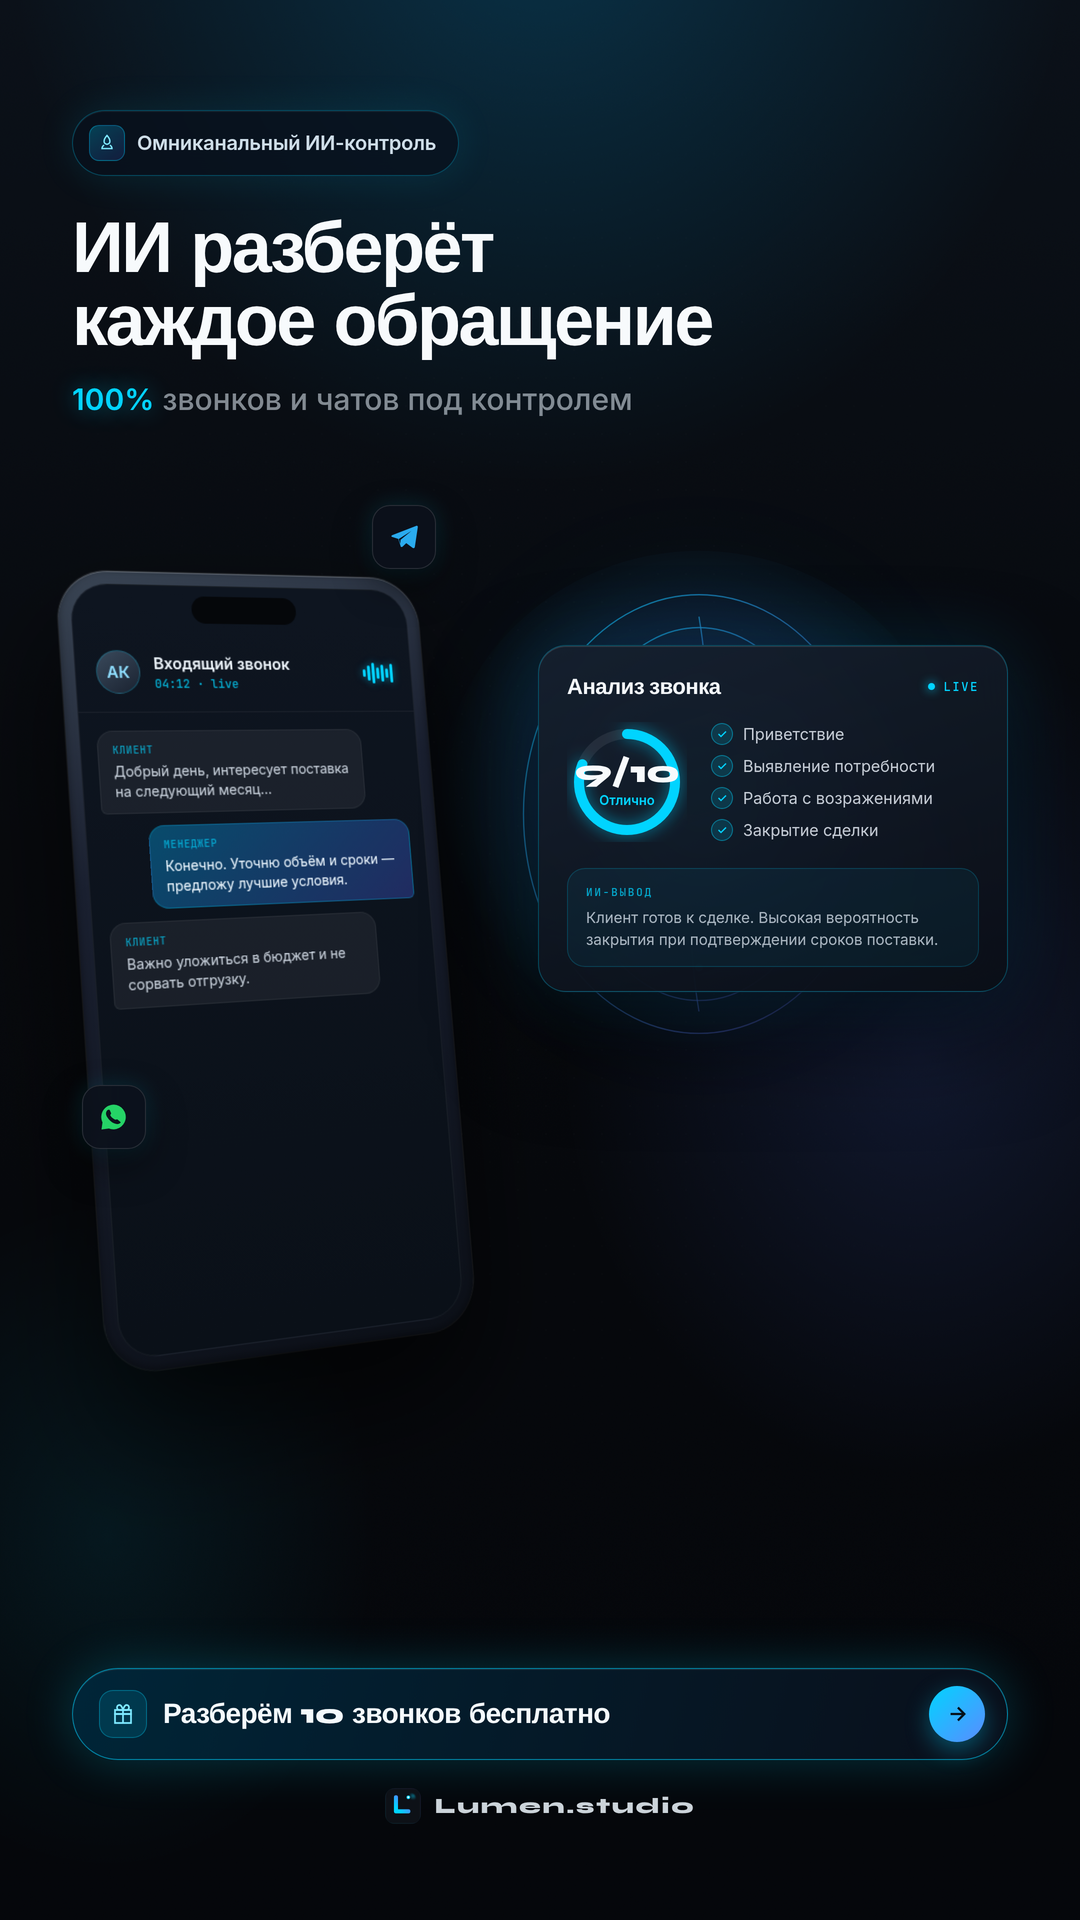
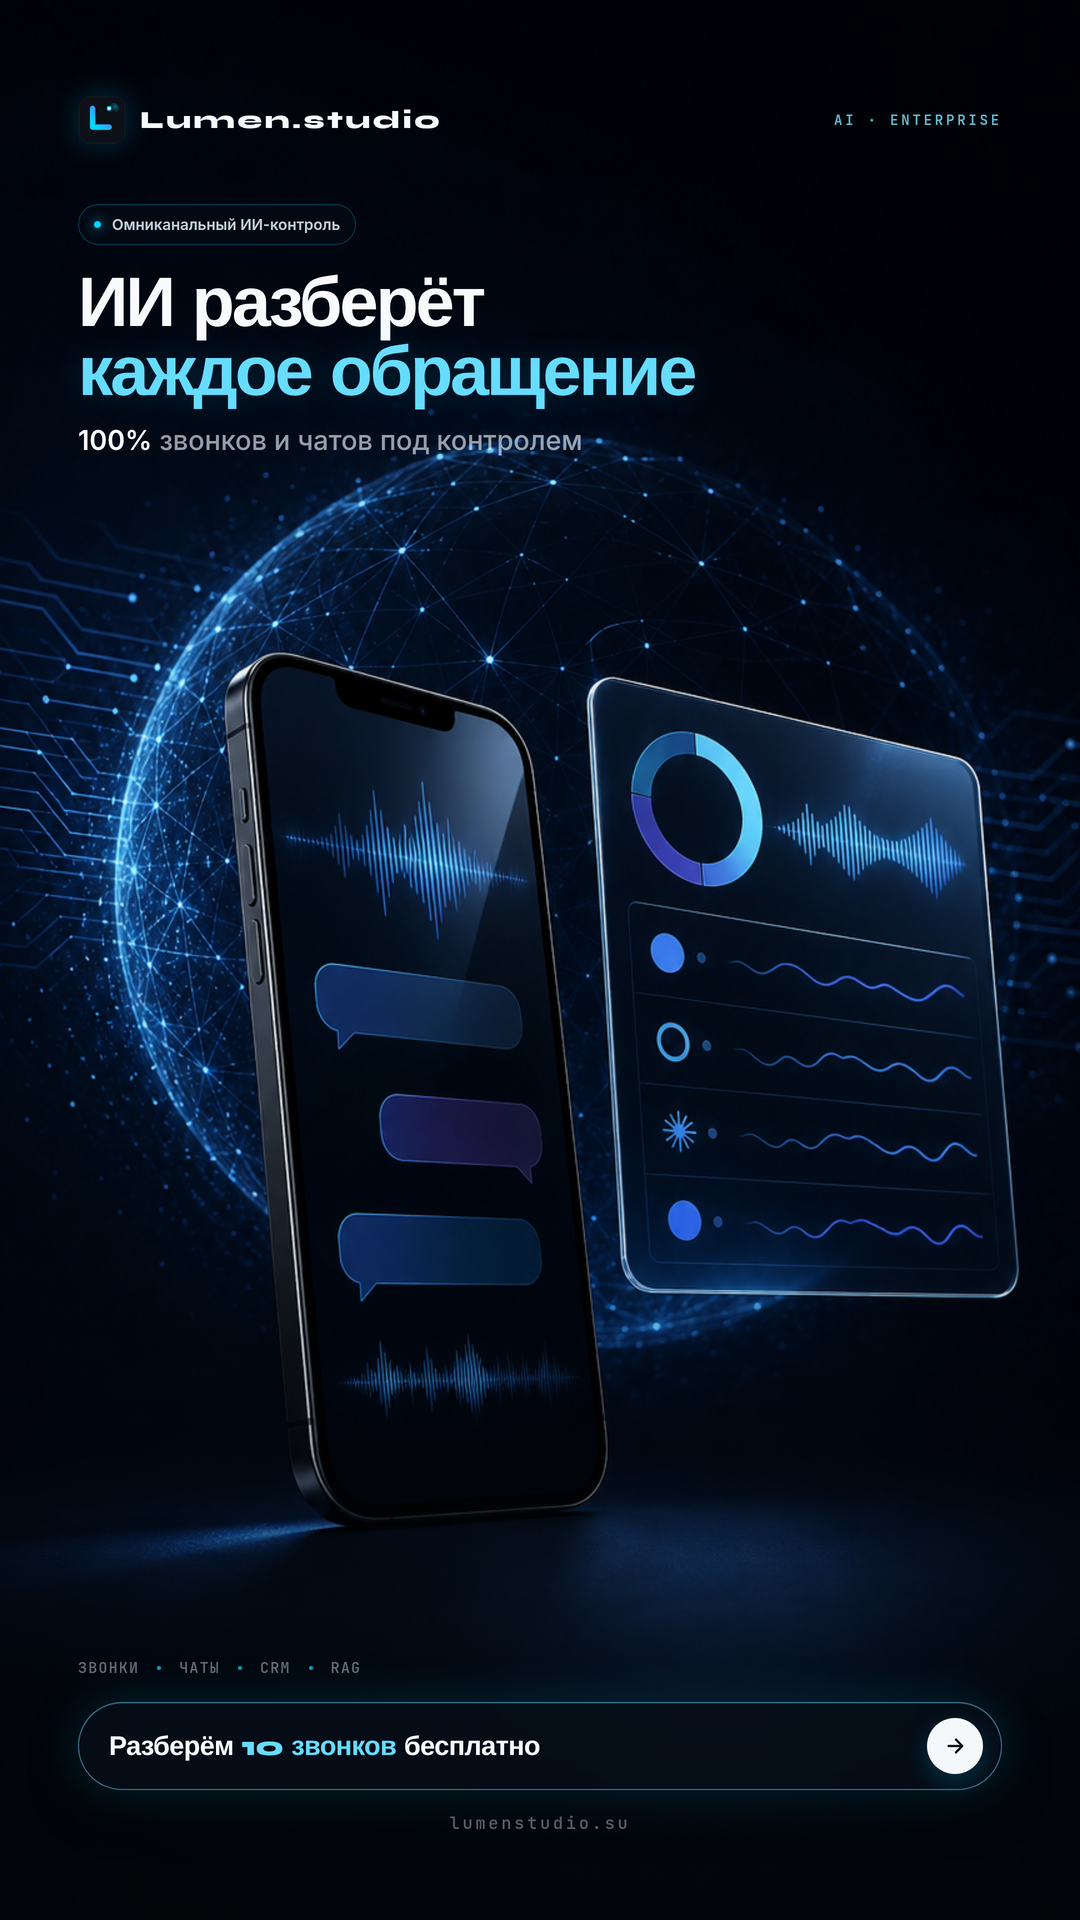
Rebuild Lumen story around premium product key visual

diff --git a/stories/story-one.html b/stories/story-one.html
@@ -503,6 +503,206 @@
       letter-spacing: 0.08em;
       color: rgba(240, 248, 255, 0.85);
     }
+    /* Final art direction: generated product key visual + restrained editorial overlay */
+    .content { display: none; }
+
+    .premium-visual {
+      position: absolute;
+      inset: 0;
+      width: 100%;
+      height: 100%;
+      object-fit: cover;
+      z-index: 0;
+    }
+
+    .premium-shade {
+      position: absolute;
+      inset: 0;
+      z-index: 1;
+      background:
+        linear-gradient(180deg, rgba(3, 5, 9, 0.02) 0%, rgba(3, 5, 9, 0) 45%, rgba(3, 5, 9, 0.08) 67%, rgba(3, 5, 9, 0.82) 100%),
+        radial-gradient(ellipse 110% 45% at 50% 0%, rgba(2, 4, 8, 0.2), transparent 72%);
+    }
+
+    .premium-content {
+      position: absolute;
+      inset: 0;
+      z-index: 4;
+      padding: 96px 78px 86px;
+      display: flex;
+      flex-direction: column;
+    }
+
+    .premium-header {
+      display: flex;
+      align-items: center;
+      justify-content: space-between;
+    }
+
+    .premium-brand {
+      display: flex;
+      align-items: center;
+      gap: 14px;
+    }
+
+    .premium-brand img {
+      width: 48px;
+      height: 48px;
+      border-radius: 13px;
+      box-shadow: 0 0 30px rgba(0, 212, 255, 0.22);
+    }
+
+    .premium-brand span {
+      font-family: "Syne", sans-serif;
+      font-size: 25px;
+      font-weight: 800;
+      letter-spacing: 0.1em;
+      color: #f6fbff;
+    }
+
+    .premium-kicker {
+      font-family: "JetBrains Mono", monospace;
+      font-size: 14px;
+      font-weight: 600;
+      letter-spacing: 0.2em;
+      text-transform: uppercase;
+      color: rgba(122, 225, 255, 0.82);
+    }
+
+    .premium-hero {
+      margin-top: 60px;
+    }
+
+    .premium-label {
+      display: inline-flex;
+      align-items: center;
+      gap: 11px;
+      padding: 10px 15px;
+      border-radius: 999px;
+      border: 1px solid rgba(0, 212, 255, 0.26);
+      background: rgba(5, 12, 22, 0.52);
+      backdrop-filter: blur(16px);
+      font-size: 15px;
+      font-weight: 600;
+      color: rgba(225, 244, 255, 0.86);
+    }
+
+    .premium-label::before {
+      content: "";
+      width: 7px;
+      height: 7px;
+      border-radius: 50%;
+      background: #00d4ff;
+      box-shadow: 0 0 12px #00d4ff;
+    }
+
+    .premium-title {
+      margin-top: 24px;
+      max-width: 900px;
+      font-family: "Syne", sans-serif;
+      font-size: 70px;
+      font-weight: 800;
+      line-height: 0.98;
+      letter-spacing: -0.04em;
+      color: #f8fafc;
+      text-wrap: balance;
+    }
+
+    .premium-title span {
+      color: #66dcff;
+      text-shadow: 0 0 34px rgba(0, 190, 255, 0.2);
+    }
+
+    .premium-subtitle {
+      margin-top: 18px;
+      font-size: 27px;
+      font-weight: 500;
+      color: rgba(233, 242, 250, 0.64);
+    }
+
+    .premium-subtitle strong {
+      color: #f7fbff;
+      font-weight: 600;
+    }
+
+    .premium-footer {
+      margin-top: auto;
+    }
+
+    .premium-proof {
+      display: flex;
+      align-items: center;
+      gap: 18px;
+      margin-bottom: 24px;
+      font-family: "JetBrains Mono", monospace;
+      font-size: 15px;
+      letter-spacing: 0.08em;
+      text-transform: uppercase;
+      color: rgba(226, 240, 250, 0.44);
+    }
+
+    .premium-proof i {
+      width: 4px;
+      height: 4px;
+      border-radius: 50%;
+      background: #00d4ff;
+      opacity: 0.72;
+    }
+
+    .premium-cta {
+      display: flex;
+      align-items: center;
+      justify-content: space-between;
+      height: 88px;
+      padding: 0 18px 0 30px;
+      border-radius: 999px;
+      border: 1px solid rgba(109, 222, 255, 0.52);
+      background: rgba(7, 14, 24, 0.78);
+      backdrop-filter: blur(22px);
+      box-shadow:
+        inset 0 1px 0 rgba(255, 255, 255, 0.1),
+        0 0 48px rgba(0, 196, 255, 0.16),
+        0 18px 50px rgba(0, 0, 0, 0.38);
+    }
+
+    .premium-cta-text {
+      font-family: "Syne", sans-serif;
+      font-size: 27px;
+      font-weight: 800;
+      letter-spacing: -0.02em;
+      color: #f8fbfd;
+    }
+
+    .premium-cta-text span { color: #66dcff; }
+
+    .premium-arrow {
+      width: 56px;
+      height: 56px;
+      border-radius: 50%;
+      display: grid;
+      place-items: center;
+      background: #f5f8fa;
+      box-shadow: 0 8px 24px rgba(0, 190, 255, 0.22);
+    }
+
+    .premium-arrow svg {
+      width: 22px;
+      height: 22px;
+      fill: none;
+      stroke: #071018;
+      stroke-width: 2.4;
+      stroke-linecap: round;
+      stroke-linejoin: round;
+    }
+
+    .premium-url {
+      margin-top: 22px;
+      text-align: center;
+      font-family: "JetBrains Mono", monospace;
+      font-size: 17px;
+      letter-spacing: 0.16em;
+      color: rgba(226, 240, 250, 0.42);
+    }
   </style>
 </head>
 <body>
@@ -647,6 +847,37 @@
       <div class="brand-row">
         <img src="./lumen-mark.svg" alt="" />
         <span>Lumen.studio</span>
+      </div>
+    </div>
+
+    <img class="premium-visual" src="file:///opt/cursor/artifacts/assets/lumen-premium-key-visual.png" alt="" />
+    <div class="premium-shade"></div>
+    <div class="premium-content">
+      <div class="premium-header">
+        <div class="premium-brand">
+          <img src="./lumen-mark.svg" alt="" />
+          <span>Lumen.studio</span>
+        </div>
+        <div class="premium-kicker">AI · Enterprise</div>
+      </div>
+
+      <div class="premium-hero">
+        <div class="premium-label">Омниканальный ИИ-контроль</div>
+        <h1 class="premium-title">ИИ разберёт <span>каждое обращение</span></h1>
+        <p class="premium-subtitle"><strong>100%</strong> звонков и чатов под контролем</p>
+      </div>
+
+      <div class="premium-footer">
+        <div class="premium-proof">
+          <span>Звонки</span><i></i><span>Чаты</span><i></i><span>CRM</span><i></i><span>RAG</span>
+        </div>
+        <div class="premium-cta">
+          <div class="premium-cta-text">Разберём <span>10 звонков</span> бесплатно</div>
+          <div class="premium-arrow" aria-hidden="true">
+            <svg viewBox="0 0 24 24"><path d="M5 12h14"/><path d="m13 5 7 7-7 7"/></svg>
+          </div>
+        </div>
+        <div class="premium-url">lumenstudio.su</div>
       </div>
     </div>
   </article>
